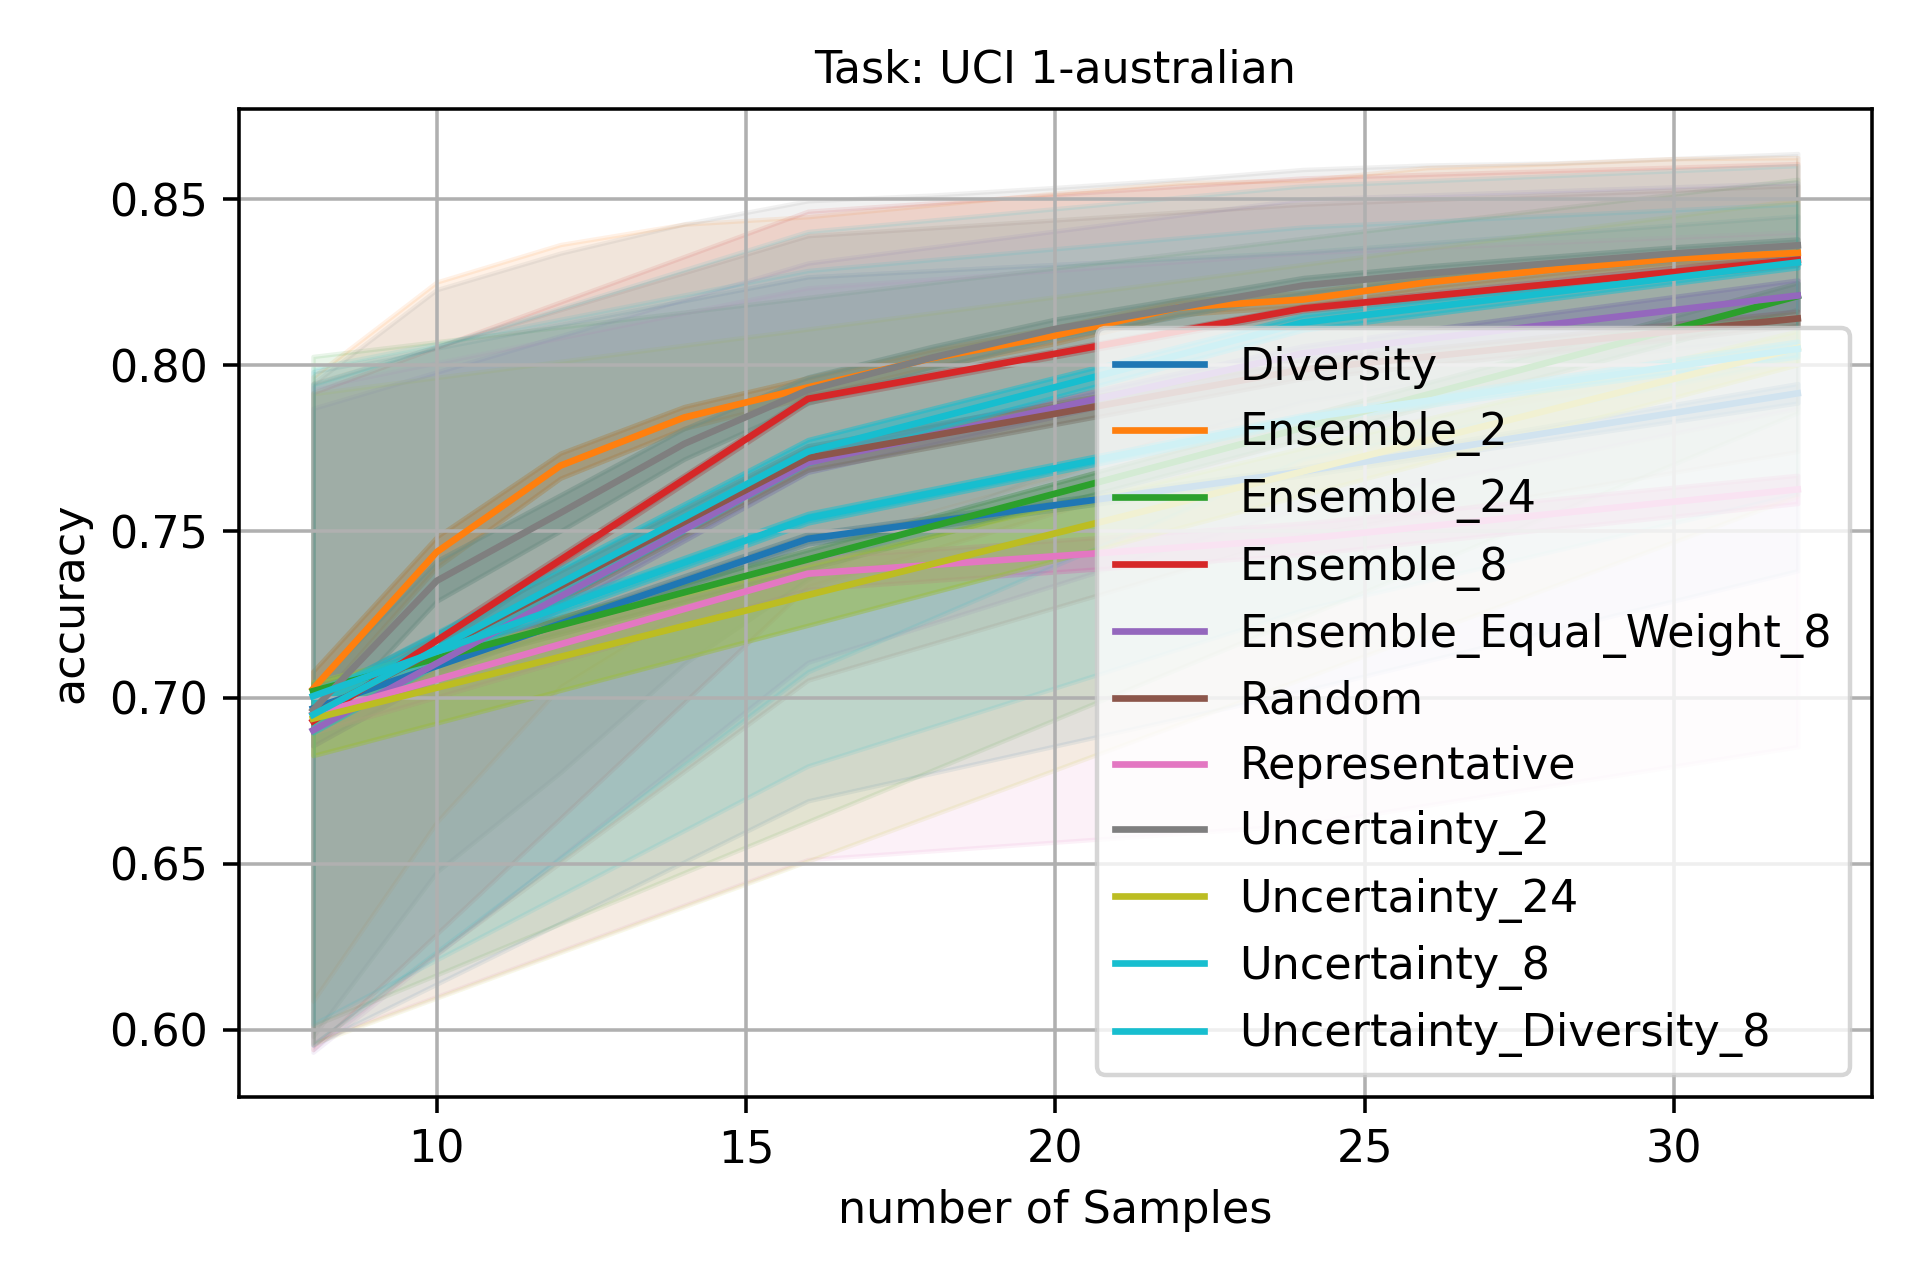
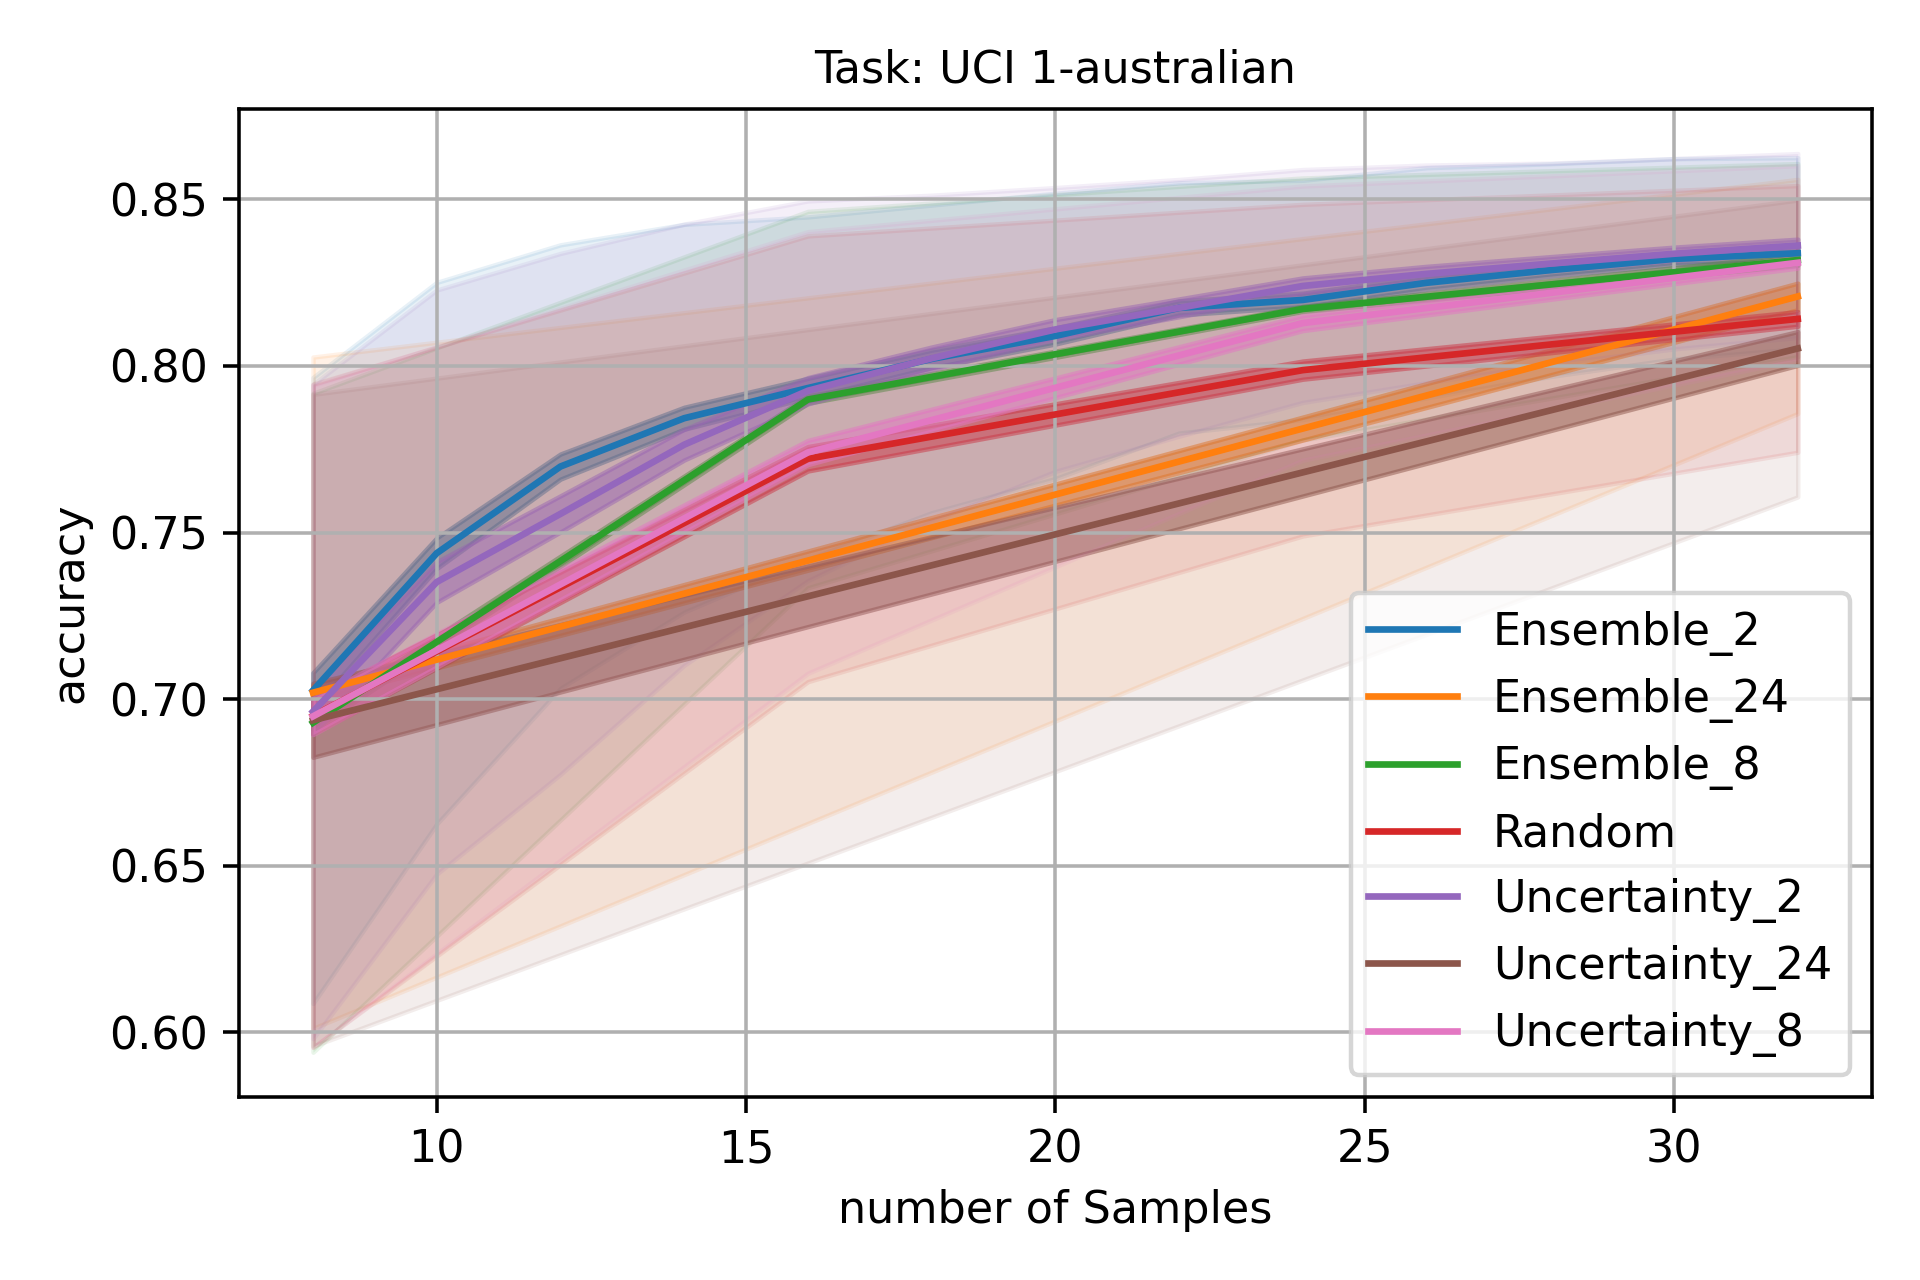
added visualisations of the objective function

diff --git a/AL_agents/visualize_objective_function/visualize_objective_function.py b/AL_agents/visualize_objective_function/visualize_objective_function.py
@@ -1,48 +1,28 @@
-import matplotlib.pyplot as plt
 import pandas as pd
 
-all_betas = ['Uncertainty', 'Diversity', 'Representative', 'Uncertainty_Diversity']
-axes_ = [all_betas[i] for i in [0,1,2]]
+from AL_agents.visualize_objective_function.plot_objective_function import plot_objective_function
 
-filenames = ["df objective model_UCI.csv",
-             "df objective model_checkerboard.csv",
-             "df objective model_Vision.csv",
-             "df objective model_bAbI"]
-filename = "evaluations/"+filenames[0]
+filenames = ["df objective model_UCI.csv", "df objective model_checkerboard.csv", "df objective model_Vision.csv",
+             "df objective model_bAbI.csv"]
+filename_df = "evaluations/" + filenames[3]
+directory = filename_df[:-4]
+df: pd.DataFrame = pd.read_csv(filename_df)
+all_features = ["Uncertainty", "Diversity", "Representative", "Uncertainty_Diversity"]
 
-df = pd.read_csv(filename)
-if True:
-    sum = df[all_betas].sum(axis=1).add(1)
-    for beta_str in all_betas:
-        df[beta_str] = df[beta_str] / sum
+# plot over single feature
+for axes_index in range(len(all_features)):
+    feature_name = all_features[axes_index]
+    filename_to_save = directory+f"/{feature_name}.png"
+    plot_objective_function(df, [feature_name], filename_to_save, plot=False)
 
-fig = plt.figure()
-x = df[axes_[0]]
-if len(axes_) >= 2:
-    y = df[axes_[1]]
-c = df['accuracy']
-if len(axes_) == 3:
-    ax = fig.add_subplot(111, projection='3d')
-    z = df[axes_[2]]
-    img = ax.scatter(x, y, z, c=c, cmap='RdYlGn')
-    ax.set_xlabel(axes_[0])
-    ax.set_ylabel(axes_[1])
-    ax.set_zlabel(axes_[2])
-    fig.colorbar(img)
-elif len(axes_) == 2:
-    ax = fig.add_subplot()
-    img = ax.scatter(x, y, c=c, cmap='RdYlGn')
-    ax.set_xlabel(axes_[0])
-    ax.set_ylabel(axes_[1])
-    fig.colorbar(img)
-elif len(axes_) == 1:
-    ax = fig.add_subplot()
-    img = ax.scatter(x, c)
-    ax.set_xlabel(axes_[0])
-    ax.set_ylabel('accuracy')
+# plot over two features
+for axes_index_1 in range(len(all_features)):
+    for axes_index_2 in range(axes_index_1+1, len(all_features)):
+        feature_names = [all_features[i] for i in [axes_index_1, axes_index_2]]
+        filename_to_save = directory+f"/{' '.join(feature_names)}.png"
+        plot_objective_function(df, feature_names, filename_to_save, plot=False)
 
-
-plt.title(f"Accuracy dependent on beta values")
-
-
-plt.show()
+# plot over three features
+feature_names = [all_features[i] for i in [0, 1, 2]]
+filename_to_save = directory+f"/{' '.join(feature_names)}.png"
+plot_objective_function(df, feature_names, filename_to_save, plot=False)

diff --git a/AL_agents/visualize_objective_function/plot_objective_function.py b/AL_agents/visualize_objective_function/plot_objective_function.py
@@ -1,0 +1,88 @@
+from typing import List, Tuple
+from pathlib import Path
+import os
+
+import matplotlib.pyplot as plt
+import pandas as pd
+import numpy as np
+from sklearn.preprocessing import PolynomialFeatures
+from sklearn.linear_model import LinearRegression
+
+
+def polyfit_df(df: pd.DataFrame) -> Tuple[np.ndarray, np.ndarray]:
+    poly = PolynomialFeatures(degree=1)
+    data = df.to_numpy()
+    Y = data[:, -1]  # last column is target
+    X = data[:, :-1]
+    X_ = poly.fit_transform(X)
+    model = LinearRegression()
+    model.fit(X_, Y)
+
+    predicted_acc = model.predict(X_)
+    return predicted_acc
+
+
+def plot_objective_function(
+        df: pd.DataFrame,
+        axes_: List[str],
+        filename_to_save: str = None,
+        plot: bool = True
+):
+    all_betas = ["Uncertainty", "Diversity", "Representative", "Uncertainty_Diversity"]
+    df = df.copy(deep=True)
+    if True:
+        sum = df[all_betas].sum(axis=1).add(1)
+        for beta_str in all_betas:
+            df[beta_str] = df[beta_str] / sum
+
+    fig = plt.figure()
+    x = df[axes_[0]]
+    if len(axes_) >= 2:
+        y = df[axes_[1]]
+    c = df['accuracy']
+    if len(axes_) == 3:
+        ax = fig.add_subplot(111, projection='3d')
+        ax.azim = 45
+        z = df[axes_[2]]
+        img = ax.scatter(x, y, z, c=c, cmap='RdYlGn')
+        fig.colorbar(img, ax=ax)
+        ax.set_xlabel(axes_[0])
+        ax.set_ylabel(axes_[1])
+        ax.set_zlabel(axes_[2])
+
+    elif len(axes_) == 2:
+        ax = fig.add_subplot()
+        img = ax.scatter(x, y, c=c, cmap='RdYlGn')
+        ax.set_xlabel(axes_[0])
+        ax.set_ylabel(axes_[1])
+        fig.colorbar(img)
+    elif len(axes_) == 1:
+        ax = fig.add_subplot()
+
+        if True:
+            # compute univariate polyfit
+            coefficients = np.polyfit(x, c, deg=2)
+            poly = np.poly1d(coefficients)
+            x_min = min(x.values)
+            x_max = max(x.values)
+            new_x = np.linspace(x_min, x_max)
+            new_c = poly(new_x)
+        else:
+            df_ = df.sort_values(by=axes_)
+            new_x = df_[axes_]
+            new_c = polyfit_df(df)
+        plt.scatter(x, c)
+        plt.plot(new_x, new_c)
+
+        ax.set_xlabel(axes_[0])
+        ax.set_ylabel('accuracy')
+
+    # plt.title(f"Accuracy dependent on relative weight(s) of heuristics(s)")
+    plt.tight_layout()
+
+    if filename_to_save is not None:
+        directory = os.path.dirname(filename_to_save)
+        Path(directory).mkdir(parents=True, exist_ok=True)
+        plt.savefig(filename_to_save)
+    if plot:
+        plt.show()

diff --git a/Experiments/generate_plots.py b/Experiments/generate_plots.py
@@ -3,9 +3,13 @@ from os.path import isfile, join
 
 from AL_apply_agent_on_task.application_handler_file_handler import ApplicationHandlerFileHandlerJSON
 
-path = "./Experiments/results_ICLR_with_ensemble_equal_weight"
+path = "./Experiments/results_ICLR_other_batchsizes"
 
-files = [join(path, f) for f in listdir(path) if isfile(join(path, f)) and f.endswith('.json')]
+files = [join(path, f) for f in listdir(path) if isfile(join(path, f)) and f.endswith('.json') and 'UCI' in f]
 for file in files:
     file_handler = ApplicationHandlerFileHandlerJSON(file)
-    file_handler.plot_all_content_with_confidence_intervals()
+    if True:
+        agent_names = ["Ensemble_2","Ensemble_8","Ensemble_24","Uncertainty_2", "Uncertainty_8", "Uncertainty_24", "Random"]
+    else:
+        agent_names = []
+    file_handler.plot_all_content_with_confidence_intervals(agent_names=agent_names)

diff --git a/AL_agents/visualize_objective_function/evaluate_objective_function.py b/AL_agents/visualize_objective_function/evaluate_objective_function.py
@@ -23,9 +23,9 @@ batch_size_annotation = 8
 n_jobs = 1
 runs_per_objective_function = 64
 
-max_evals = 20
+max_evals = 100
 
-algo = [hp.atpe.suggest, hp.tpe.suggest, hp.rand.suggest][1]
+algo = [hp.atpe.suggest, hp.tpe.suggest, hp.rand.suggest][2]
 
 '''
 Parameters for monte carlo simulation
